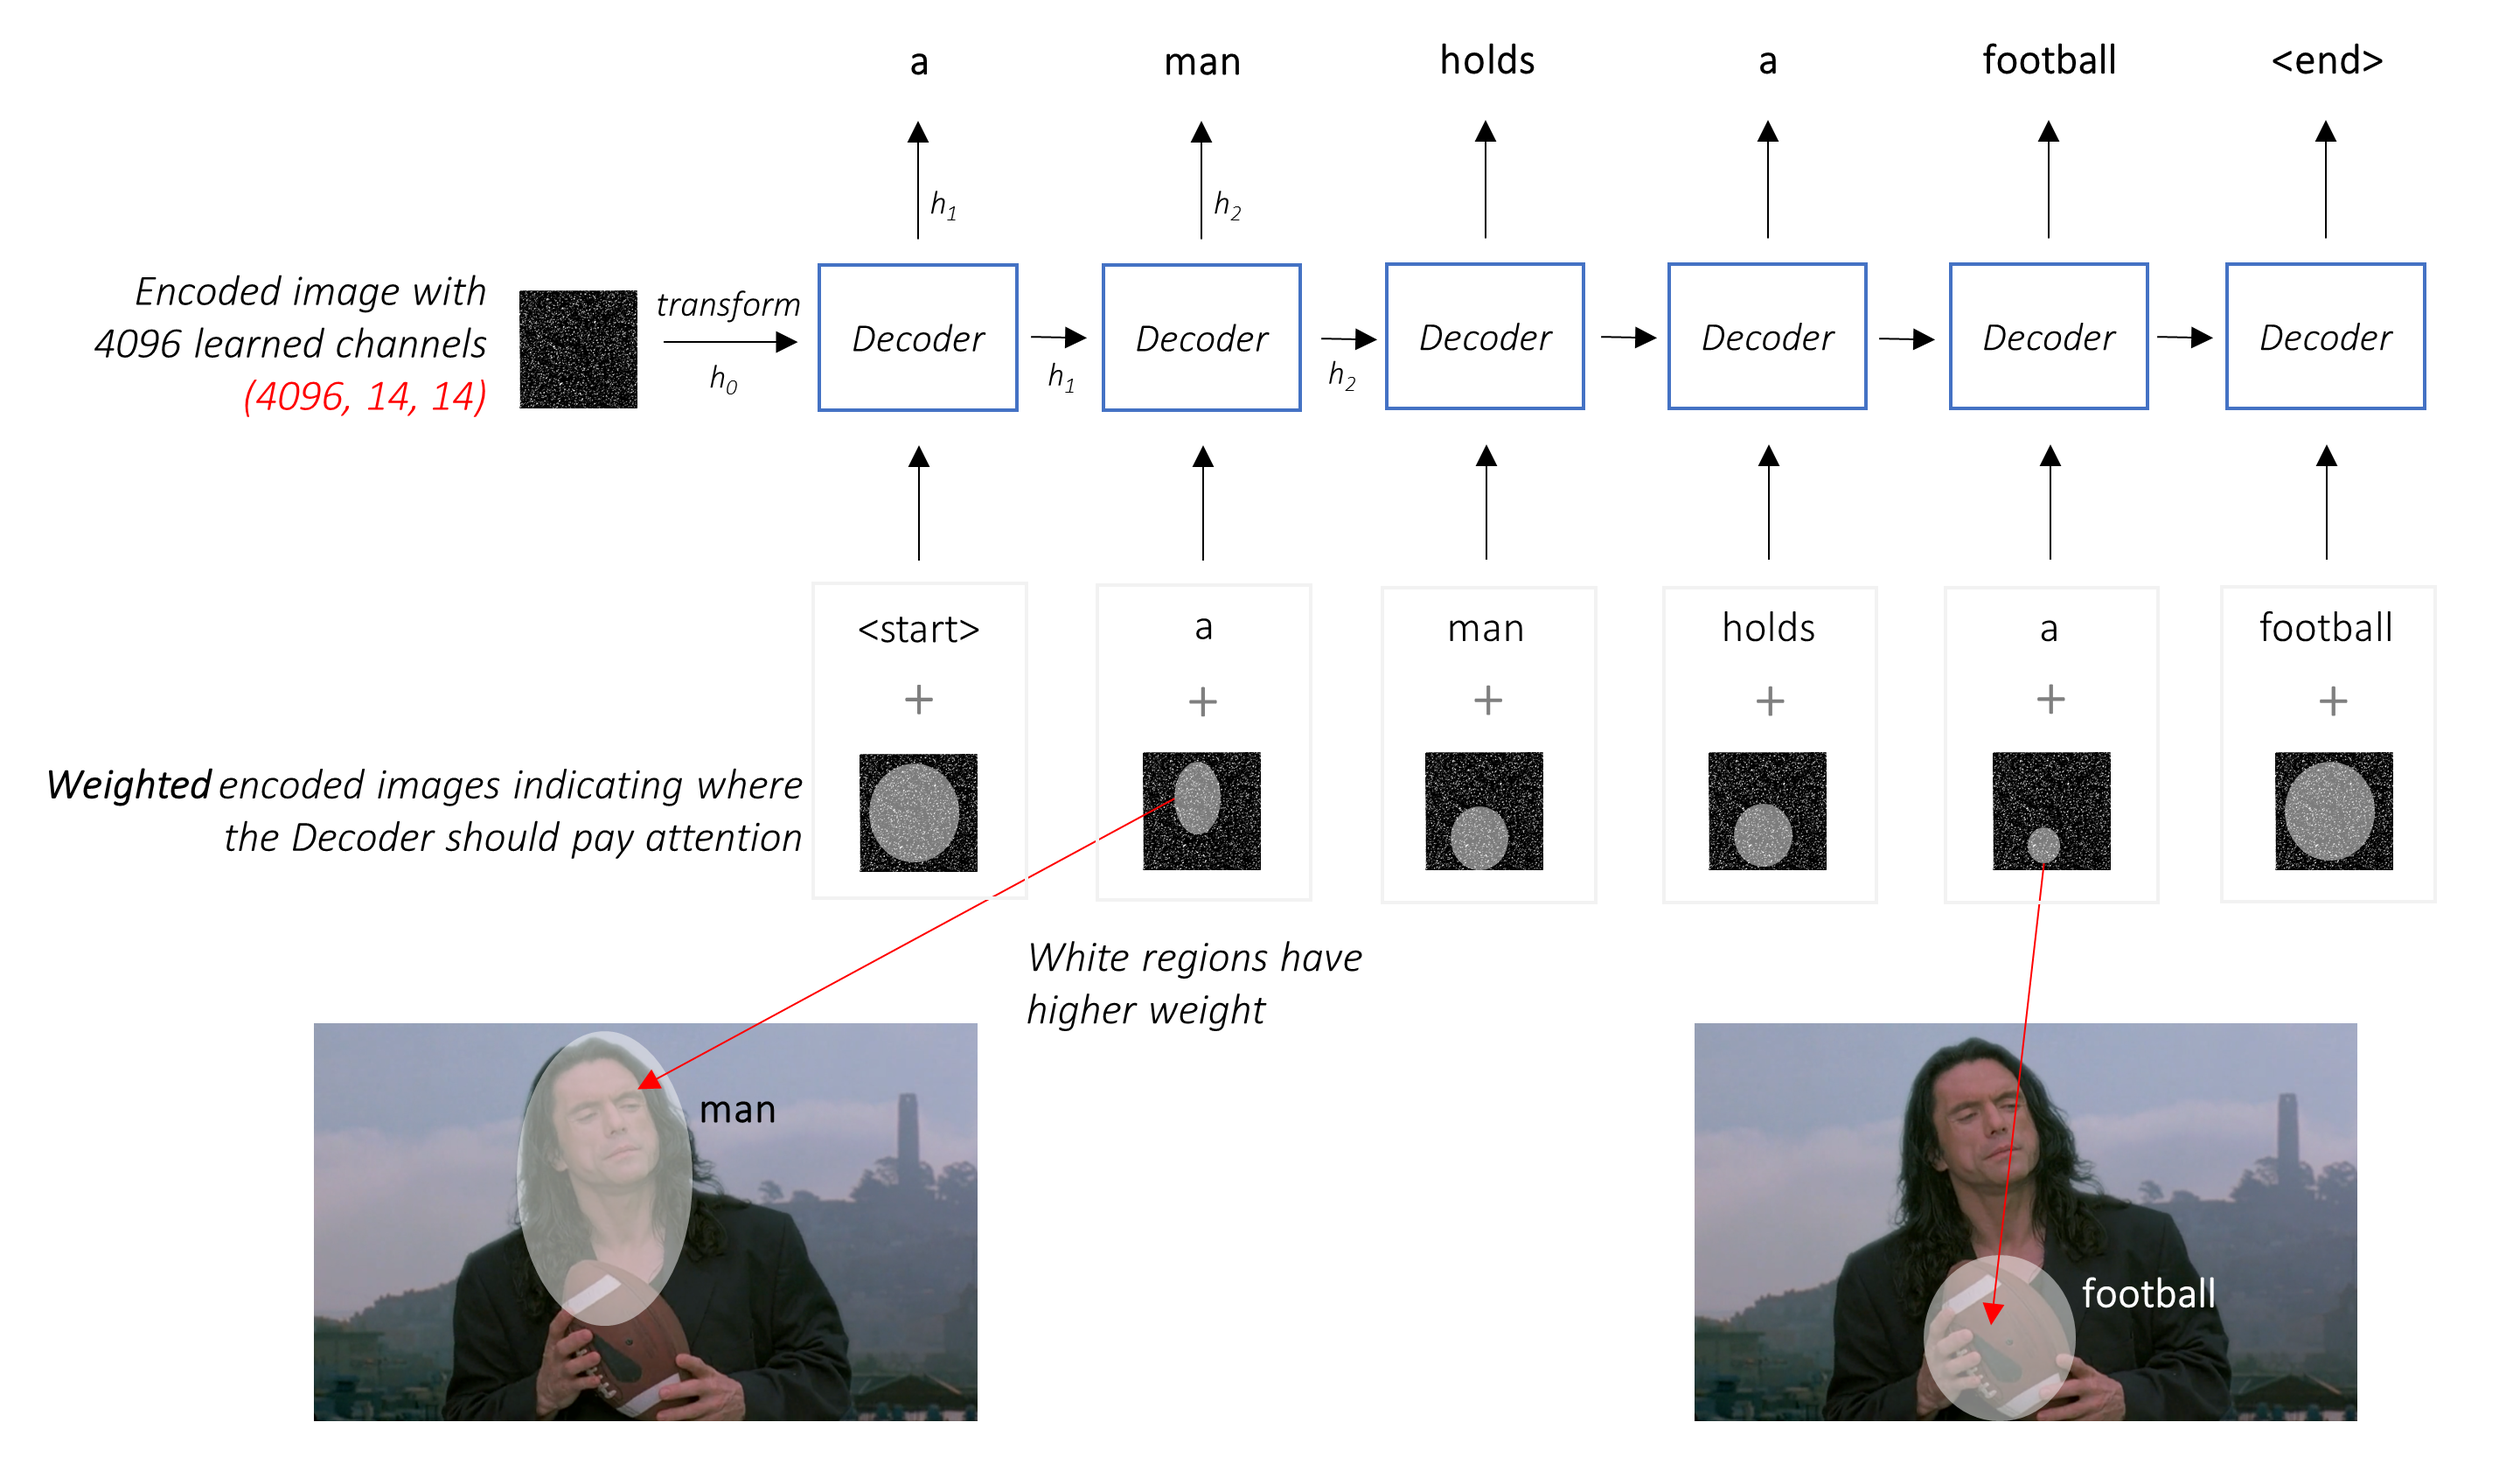
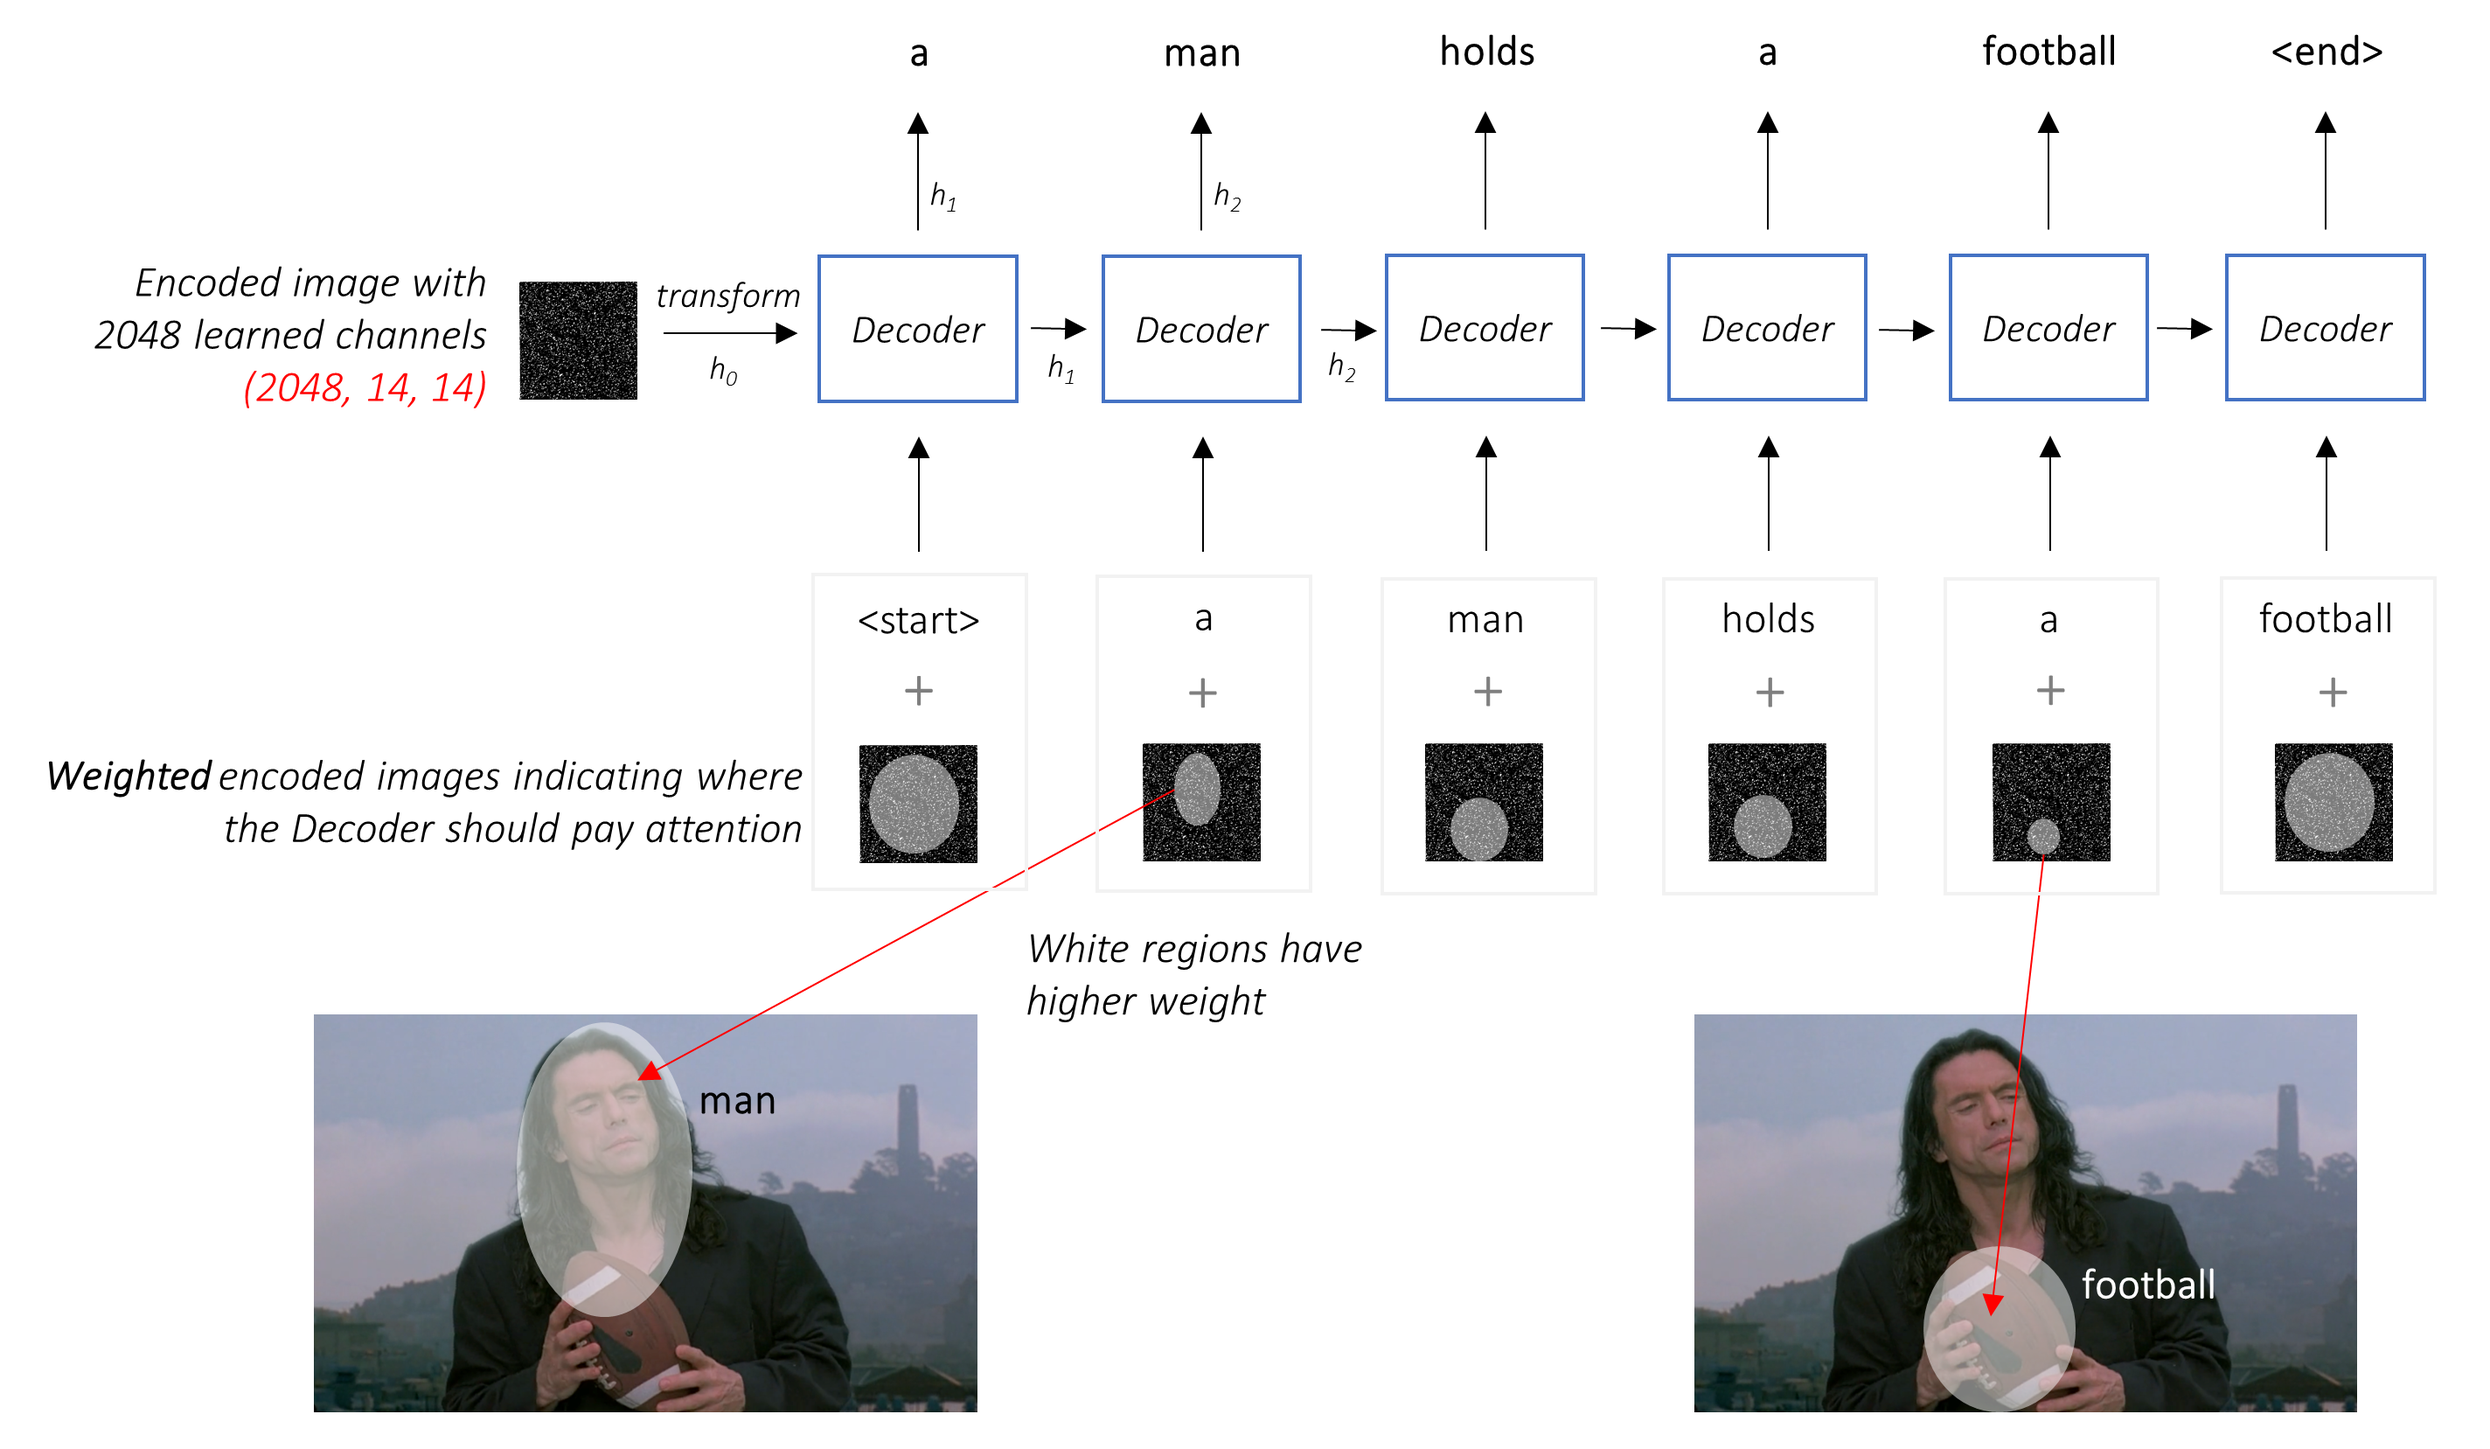
fixed error

diff --git a/code/ShowAttendAndTell/README.md b/code/ShowAttendAndTell/README.md
@@ -102,7 +102,7 @@ I have chosen to use the **101 layered Residual Network trained on the ImageNet 
 
 ![ResNet Encoder](./img/encoder.png)
 
-These models progressively create smaller and smaller representations of the original image, and each subsequent representation is more "learned", with a greater number of channels. The final encoding produced by our ResNet-101 encoder has a size of 14x14 with 4096 channels, i.e., a `4096, 14, 14` size tensor.
+These models progressively create smaller and smaller representations of the original image, and each subsequent representation is more "learned", with a greater number of channels. The final encoding produced by our ResNet-101 encoder has a size of 14x14 with 2048 channels, i.e., a `2048, 14, 14` size tensor.
 
 I encourage you to experiment with other pre-trained architectures. The paper uses a VGGnet, also pretrained on ImageNet, but without fine-tuning. Either way, modifications are necessary. Since the last layer or two of these models are linear layers coupled with softmax activation for classification, we strip them away.
 
@@ -273,13 +273,13 @@ See `Attention` in [`models.py`](https://github.com/sgrvinod/a-PyTorch-Tutorial-
 
 The Attention network is simple – it's composed of only linear layers and a couple of activations.
 
-Separate linear layers **transform both the encoded image (flattened to `N, 14 * 14, 4096`) and the hidden state (output) from the Decoder to the same dimension**, viz. the Attention size. They are then added and ReLU activated. A third linear layer **transforms this result to a dimension of 1**, whereupon we **apply the softmax to generate the weights** `alpha`.
+Separate linear layers **transform both the encoded image (flattened to `N, 14 * 14, 2048`) and the hidden state (output) from the Decoder to the same dimension**, viz. the Attention size. They are then added and ReLU activated. A third linear layer **transforms this result to a dimension of 1**, whereupon we **apply the softmax to generate the weights** `alpha`.
 
 ### Decoder
 
 See `DecoderWithAttention` in [`models.py`](https://github.com/sgrvinod/a-PyTorch-Tutorial-to-Image-Captioning/blob/master/models.py).
 
-The output of the Encoder is received here and flattened to dimensions `N, 14 * 14, 4096`. This is just convenient and prevents having to reshape the tensor multiple times.
+The output of the Encoder is received here and flattened to dimensions `N, 14 * 14, 2048`. This is just convenient and prevents having to reshape the tensor multiple times.
 
 We **initialize the hidden and cell state of the LSTM** using the encoded image with the `init_hidden_state()` method, which uses two separate linear layers.
 
